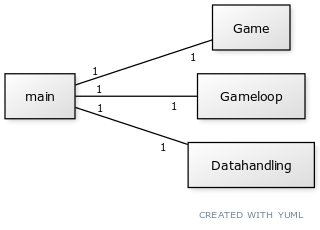
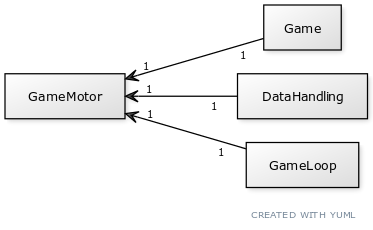
Viimeiset korjaukset dokumentointiin

diff --git a/dokumentaatio/arkkitehtuuri.md b/dokumentaatio/arkkitehtuuri.md
@@ -29,6 +29,12 @@ vastaavien luokkien olioita.
 
 ![Luokkakaavio](kuvat/luokkakaavio.png)
 
+Game-luokka vastaa pelin säännöistä, kuten pelilaudan pohjan luomisesta, siirtojen tekemisestä, uuden laatan
+arpomisesta ja pelin päättymisen tunnistamisesta. DataHandling-luokka vastaa pelin tulosten tallentamisesta
+ja näyttämisestä.
+
+GameMotor-luokka vastaa peliin tarvittavien olioiden luonnista. Game- ja DataHandling-olioiden lisäksi se luo esimerkiksi pygamen tarvitsemat tapahtumankäsittelijä- ja piirtäjäoliot. GameLoop-luokka vastaa näiden avulla yhden pelikierroksen toiminnasta.
+
 ## Tietojen tallennus
 
 Pakkauksen *data* luokka DataHandling huolehtii tietojen tallennuksesta Google Sheets -tiedostoon

diff --git a/dokumentaatio/testausdokumentti.md b/dokumentaatio/testausdokumentti.md
@@ -6,7 +6,7 @@ Järjestelmätason testit on suoritettu manuaalisesti.
 
 ## Yksikkö- ja integraatiotestaus
 
-### Sovelluslogiikka
+### Sovelluslogiikka ja tietojen tallennus
 
 Varsinaisesta sovelluslogiikasta vastaavaa `Game`-luokkaa testataan TestGame-luokalla. Datan käsittelystä
 vastaavaa `DataHandling`-luokkaa testataan TestDataHandling-luokalla. Tietojen käsittelyn testausta varten
